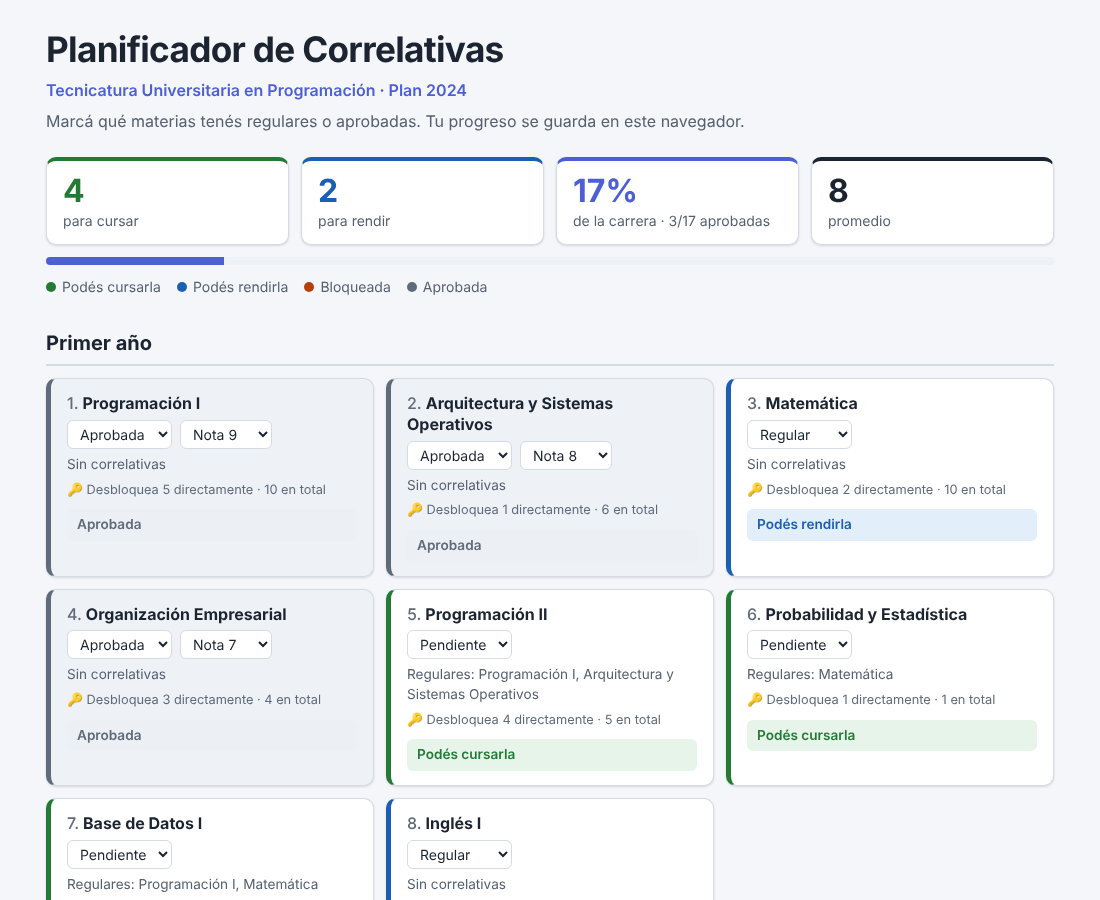
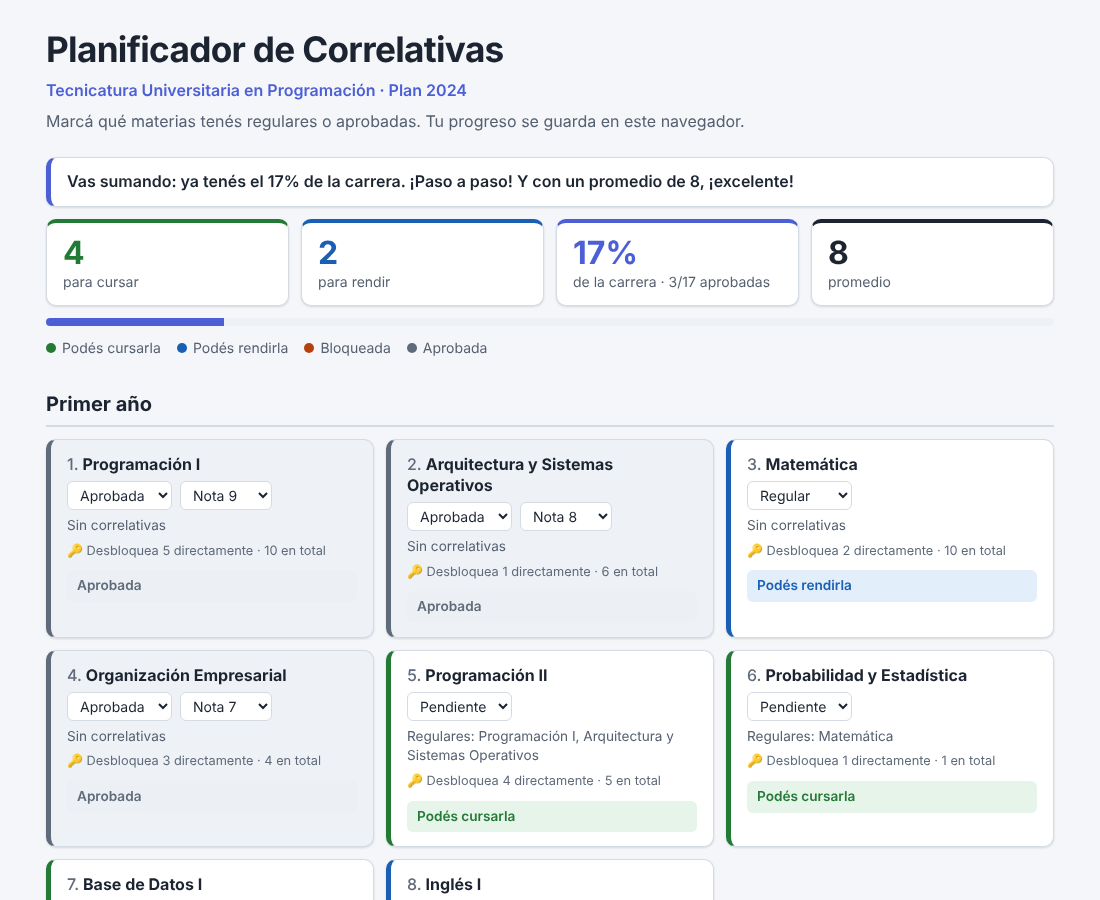
Mensajes de feedback según el avance y el promedio (#17)
mensaje_de_avance() arma un mensaje cercano y motivador según cuánto falta y el promedio. POST /api/evaluacion lo devuelve en "mensaje" y el frontend lo muestra arriba del resumen.

Claude-Session: https://claude.ai/code/session_01964kccXaNgd8iL78TTP1B4

Changed region(s): [[0.0309, 0.1556, 0.9582, 0.9956]]

diff --git a/app/static/app.js b/app/static/app.js
@@ -96,7 +96,7 @@ async function evaluar() {
             body: JSON.stringify({ estados, notas }),
         });
         if (pedido === ultimoPedido) {
-            mostrarEvaluacion(datos.materias, datos.progreso);
+            mostrarEvaluacion(datos.materias, datos.progreso, datos.mensaje);
         }
     } catch (error) {
         if (pedido === ultimoPedido) {
@@ -259,7 +259,7 @@ function situacion(evaluacion) {
         : { clase: "bloqueada", texto: "Para cursar falta: " + listarFaltantes(evaluacion.faltan_para_cursar) };
 }
 
-function mostrarEvaluacion(evaluaciones, progreso) {
+function mostrarEvaluacion(evaluaciones, progreso, mensaje) {
     for (const evaluacion of evaluaciones) {
         const tarjeta = document.querySelector(`.materia[data-numero="${evaluacion.numero}"]`);
         const { clase, texto } = situacion(evaluacion);
@@ -267,7 +267,7 @@ function mostrarEvaluacion(evaluaciones, progreso) {
         tarjeta.querySelector(".resultado").textContent = texto;
     }
 
-    mostrarResumen(evaluaciones, progreso);
+    mostrarResumen(evaluaciones, progreso, mensaje);
 }
 
 // Un número grande con su descripción, por ejemplo "4 / materias para cursar".
@@ -287,7 +287,7 @@ function formatearPromedio(promedio) {
     return promedio.toLocaleString("es-AR", { maximumFractionDigits: 2 });
 }
 
-function mostrarResumen(evaluaciones, progreso) {
+function mostrarResumen(evaluaciones, progreso, mensaje) {
     const cuantas = (condicion) => evaluaciones.filter(condicion).length;
     const { aprobadas, total, porcentaje, promedio } = progreso;
 
@@ -304,7 +304,13 @@ function mostrarResumen(evaluaciones, progreso) {
     relleno.style.width = `${(aprobadas / total) * 100}%`;
     barra.append(relleno);
 
+    // El texto lo arma el backend (services/feedback.py), con sus tests.
+    const feedback = document.createElement("p");
+    feedback.className = "feedback";
+    feedback.textContent = mensaje;
+
     document.getElementById("resumen").replaceChildren(
+        feedback,
         crearDato("cursable", cuantas((e) => e.puede_cursar), "para cursar"),
         crearDato("rendible", cuantas((e) => e.puede_rendir), "para rendir"),
         crearDato("aprobada", `${porcentaje}%`, `de la carrera · ${aprobadas}/${total} aprobadas`),

diff --git a/app/static/estilos.css b/app/static/estilos.css
@@ -157,6 +157,19 @@ header .ayuda {
     grid-column: 1 / -1;
 }
 
+/* Mensaje de feedback: ocupa todo el ancho, arriba de las tarjetas. */
+.feedback {
+    grid-column: 1 / -1;
+    margin: 0;
+    padding: 12px 16px;
+    font-weight: 600;
+    background: var(--superficie);
+    border: 1px solid var(--borde);
+    border-left: 5px solid var(--acento);
+    border-radius: var(--radio);
+    box-shadow: var(--sombra);
+}
+
 /* --- Leyenda --------------------------------------------------------------- */
 
 .leyenda {

diff --git a/tests/test_feedback.py b/tests/test_feedback.py
@@ -1,0 +1,81 @@
+import pytest
+
+from app.services.feedback import formatear_numero, mensaje_de_avance
+from app.services.progreso import Progreso
+
+
+def progreso(aprobadas: int, promedio: float | None = None, total: int = 17) -> Progreso:
+    """Arma un Progreso de prueba. El porcentaje se calcula igual que en progreso.py."""
+    return Progreso(
+        aprobadas=aprobadas,
+        total=total,
+        porcentaje=aprobadas * 100 // total,
+        promedio=promedio,
+        notas_cargadas=0 if promedio is None else aprobadas,
+    )
+
+
+def test_un_alumno_nuevo_recibe_la_bienvenida():
+    assert mensaje_de_avance(progreso(0)) == "¡Arrancamos! Empezá por las materias que podés cursar ahora."
+
+
+def test_antes_de_la_mitad_muestra_el_porcentaje():
+    assert mensaje_de_avance(progreso(3)) == "Vas sumando: ya tenés el 17% de la carrera. ¡Paso a paso!"
+
+
+def test_desde_la_mitad_lo_celebra():
+    # 9 de 17 = 52 %.
+    assert mensaje_de_avance(progreso(9)) == "Ya pasaste la mitad de la carrera: llevás el 52%. ¡Seguí así!"
+
+
+def test_justo_antes_de_la_mitad_todavia_no():
+    # 8 de 17 = 47 %.
+    assert mensaje_de_avance(progreso(8)).startswith("Vas sumando")
+
+
+@pytest.mark.parametrize(
+    ("aprobadas", "esperado"),
+    [
+        (14, "¡Te faltan solo 3 materias! Metele un último esfuerzo 💪"),
+        (15, "¡Te faltan solo 2 materias! Metele un último esfuerzo 💪"),
+        (16, "¡Te falta solo 1 materia! Metele un último esfuerzo 💪"),
+    ],
+)
+def test_cuando_falta_poco_pide_un_ultimo_esfuerzo(aprobadas, esperado):
+    assert mensaje_de_avance(progreso(aprobadas)) == esperado
+
+
+def test_con_4_pendientes_todavia_no_es_el_ultimo_esfuerzo():
+    assert mensaje_de_avance(progreso(13)).startswith("Ya pasaste la mitad")
+
+
+def test_al_terminar_felicita():
+    assert mensaje_de_avance(progreso(17)) == "¡Terminaste la tecnicatura! 🎓 Felicitaciones, te lo ganaste."
+
+
+@pytest.mark.parametrize(
+    ("promedio", "frase"),
+    [
+        (9.25, "Y con un promedio de 9,25, ¡excelente!"),
+        (8, "Y con un promedio de 8, ¡excelente!"),
+        (7.5, "Tu promedio es 7,5, ¡muy bien!"),
+        (6.67, "Tu promedio es 6,67: cada final que rendís suma para subirlo."),
+    ],
+)
+def test_suma_una_frase_segun_el_promedio(promedio, frase):
+    assert mensaje_de_avance(progreso(3, promedio)).endswith(" " + frase)
+
+
+def test_sin_notas_no_habla_del_promedio():
+    assert "promedio" not in mensaje_de_avance(progreso(3))
+
+
+def test_terminar_con_buen_promedio():
+    assert mensaje_de_avance(progreso(17, 8.5)) == (
+        "¡Terminaste la tecnicatura! 🎓 Felicitaciones, te lo ganaste. Y con un promedio de 8,5, ¡excelente!"
+    )
+
+
+@pytest.mark.parametrize(("numero", "texto"), [(7.5, "7,5"), (8.0, "8"), (7.67, "7,67"), (10, "10"), (6.1, "6,1")])
+def test_formatea_numeros_en_formato_argentino(numero, texto):
+    assert formatear_numero(numero) == texto

diff --git a/app/services/feedback.py b/app/services/feedback.py
@@ -1,0 +1,50 @@
+"""Mensajes de feedback para el alumno según su avance y su promedio.
+
+El tono es cercano y motivador, con voseo. Nunca reta: a un promedio bajo
+le corresponde un "cada final suma", no un reproche.
+
+Igual que el resto de `services/`, son funciones puras.
+"""
+
+from app.services.progreso import Progreso
+
+# Cuántas materias pendientes cuentan como "te falta poco".
+POCAS_MATERIAS = 3
+PROMEDIO_EXCELENTE = 8
+PROMEDIO_MUY_BUENO = 7
+
+
+def formatear_numero(numero: float) -> str:
+    """7.5 → "7,5" y 8.0 → "8": formato argentino, sin ceros de más."""
+    return f"{numero:.2f}".rstrip("0").rstrip(".").replace(".", ",")
+
+
+def mensaje_de_avance(progreso: Progreso) -> str:
+    """Arma un mensaje según cuánto falta y, si hay notas, según el promedio."""
+    faltan = progreso.total - progreso.aprobadas
+
+    if faltan == 0:
+        avance = "¡Terminaste la tecnicatura! 🎓 Felicitaciones, te lo ganaste."
+    elif faltan <= POCAS_MATERIAS:
+        cuantas = "1 materia" if faltan == 1 else f"{faltan} materias"
+        falta = "falta" if faltan == 1 else "faltan"
+        avance = f"¡Te {falta} solo {cuantas}! Metele un último esfuerzo 💪"
+    elif progreso.porcentaje >= 50:
+        avance = f"Ya pasaste la mitad de la carrera: llevás el {progreso.porcentaje}%. ¡Seguí así!"
+    elif progreso.aprobadas == 0:
+        avance = "¡Arrancamos! Empezá por las materias que podés cursar ahora."
+    else:
+        avance = f"Vas sumando: ya tenés el {progreso.porcentaje}% de la carrera. ¡Paso a paso!"
+
+    if progreso.promedio is None:
+        return avance
+    return f"{avance} {frase_de_promedio(progreso.promedio)}"
+
+
+def frase_de_promedio(promedio: float) -> str:
+    valor = formatear_numero(promedio)
+    if promedio >= PROMEDIO_EXCELENTE:
+        return f"Y con un promedio de {valor}, ¡excelente!"
+    if promedio >= PROMEDIO_MUY_BUENO:
+        return f"Tu promedio es {valor}, ¡muy bien!"
+    return f"Tu promedio es {valor}: cada final que rendís suma para subirlo."

diff --git a/app/routes/evaluacion.py b/app/routes/evaluacion.py
@@ -3,6 +3,7 @@ from fastapi import APIRouter, Depends, HTTPException
 from app.routes.dependencias import obtener_plan
 from app.schemas.evaluacion import EstadoAlumno, ResultadoEvaluacion
 from app.services.correlativas import evaluar_plan
+from app.services.feedback import mensaje_de_avance
 from app.services.plan import Materia
 from app.services.progreso import calcular_progreso
 
@@ -20,4 +21,4 @@ def evaluar(alumno: EstadoAlumno, plan: list[Materia] = Depends(obtener_plan)):
         # Es un error de quien hizo el pedido, no del servidor: 422 y no 500.
         raise HTTPException(status_code=422, detail=str(error)) from error
     # FastAPI convierte las dataclasses al formato de `response_model`.
-    return {"materias": evaluaciones, "progreso": progreso}
+    return {"materias": evaluaciones, "progreso": progreso, "mensaje": mensaje_de_avance(progreso)}

diff --git a/tests/test_api.py b/tests/test_api.py
@@ -102,6 +102,16 @@ def test_devuelve_el_progreso_con_porcentaje_y_promedio(cliente):
     }
 
 
+def test_devuelve_un_mensaje_de_feedback(cliente):
+    respuesta = cliente.post(
+        "/api/evaluacion",
+        json={"estados": {"1": "aprobada", "2": "aprobada", "3": "regular"}, "notas": {"1": 8, "2": 7}},
+    )
+    assert respuesta.json()["mensaje"] == (
+        "Vas sumando: ya tenés el 11% de la carrera. ¡Paso a paso! Tu promedio es 7,5, ¡muy bien!"
+    )
+
+
 def test_sin_notas_el_promedio_es_null(cliente):
     respuesta = cliente.post("/api/evaluacion", json={"estados": {"1": "aprobada"}})
     assert respuesta.json()["progreso"]["promedio"] is None

diff --git a/app/schemas/evaluacion.py b/app/schemas/evaluacion.py
@@ -58,3 +58,5 @@ class ResultadoEvaluacion(BaseModel):
 
     materias: list[EvaluacionSchema]
     progreso: ProgresoSchema
+    # Feedback para el alumno según su avance y su promedio.
+    mensaje: str

diff --git a/README.md b/README.md
@@ -17,6 +17,7 @@ App web para estudiantes de la **Tecnicatura Universitaria en Programación (UTN
   - 🟦 Podés rendirla.
   - 🟧 Bloqueada, con la lista exacta de lo que falta. Por ejemplo: "Para cursar falta: Programación II (regular)".
 - **Tu avance en la carrera:** el porcentaje completado (por cantidad de materias aprobadas) y tu promedio. La nota de cada materia aprobada es opcional, y el promedio es sin aplazos: solo cuenta las notas con las que aprobaste.
+- **Feedback motivador:** un mensaje según cuánto te falta y tu promedio. Por ejemplo: "¡Te faltan solo 2 materias! Metele un último esfuerzo 💪 Y con un promedio de 8,67, ¡excelente!"
 - **Materias llave:** cuántas materias desbloquea cada una, directamente y en cadena. Por ejemplo, Programación I y Matemática desbloquean 10 de las 17.
 - **Sin cuentas ni login:** tu progreso se guarda en tu navegador (`localStorage`). El servidor no guarda datos personales.
 
@@ -134,10 +135,11 @@ Content-Type: application/json
 
 Las materias que no aparecen se consideran pendientes. `notas` es opcional: solo admite materias aprobadas y notas enteras del 6 al 10. Una materia inexistente, un estado inválido o una nota que no cumple esas reglas devuelven `422`.
 
-La respuesta incluye, además de cada materia, el progreso:
+La respuesta incluye, además de cada materia, el progreso y un mensaje de feedback:
 
 ```json
-"progreso": { "aprobadas": 2, "total": 17, "porcentaje": 11, "promedio": 7.5, "notas_cargadas": 2 }
+"progreso": { "aprobadas": 2, "total": 17, "porcentaje": 11, "promedio": 7.5, "notas_cargadas": 2 },
+"mensaje": "Vas sumando: ya tenés el 11% de la carrera. ¡Paso a paso! Tu promedio es 7,5, ¡muy bien!"
 ```
 
 ## Estructura
@@ -147,7 +149,7 @@ app/
 ├── main.py              # crea la app, registra los routers y sirve el frontend
 ├── routes/              # endpoints HTTP
 ├── schemas/             # modelos Pydantic: el contrato de la API
-├── services/            # lógica pura: correlativas, materias llave, validación del plan
+├── services/            # lógica pura: correlativas, materias llave, progreso, feedback y validación del plan
 ├── database/            # esquema SQLite y el único módulo con SQL
 └── static/              # frontend: index.html, estilos.css, app.js
 data/tup_plan2024.json   # fuente de verdad del plan de estudios

diff --git a/CLAUDE.md b/CLAUDE.md
@@ -60,7 +60,8 @@ app/
 │   ├── plan.py             # Materia y validación del plan (ciclos, referencias)
 │   ├── correlativas.py     # lógica pura: evaluar_plan()
 │   ├── llaves.py           # lógica pura: calcular_llaves()
-│   └── progreso.py         # lógica pura: calcular_progreso() (porcentaje y promedio)
+│   ├── progreso.py         # lógica pura: calcular_progreso() (porcentaje y promedio)
+│   └── feedback.py         # lógica pura: mensaje_de_avance() (mensajes motivadores)
 └── database/
     ├── schema.sql          # tablas materias y correlativas
     └── db.py               # único módulo con SQL
@@ -110,10 +111,10 @@ Hecho:
 9. Diseño visual: colores con variables CSS, modo oscuro, resumen con barra de progreso, leyenda y contraste WCAG AA.
 10. Deploy en Vercel: <https://planificador-correlativas.vercel.app/>. La base se genera sola al arrancar, su ruta se configura con `PLANIFICADOR_DB` (en Vercel, `/tmp/planificador.db`), la versión de Python está en `.python-version` y el README explica el deploy. Cada push a `main` publica una versión nueva.
 11. Progreso: `calcular_progreso()` devuelve el porcentaje de la carrera y el promedio. Nota opcional por materia aprobada, guardada en `localStorage`. `POST /api/evaluacion` acepta `notas` y devuelve `progreso`.
+12. Feedback: `mensaje_de_avance()` arma un mensaje cercano y motivador (voseo, nunca reta) según cuánto falta y el promedio. `POST /api/evaluacion` lo devuelve en `mensaje` y el frontend lo muestra arriba del resumen.
 
 Siguiente:
 
-12. Mensajes de feedback según el porcentaje y el promedio, con tono cercano y motivador (voseo). Calculados en el backend como función pura.
 13. Lanzamiento: post en LinkedIn (a cargo de Agustín).
 
 Queda fuera del MVP: promedio con aplazos (posible mejora futura), login, cálculo de cuatrimestres restantes, equivalencias, Trabajo Final Integrador (se agrega como caso especial más adelante), tabla `carreras` (se agrega cuando haya una segunda carrera) e IA.
